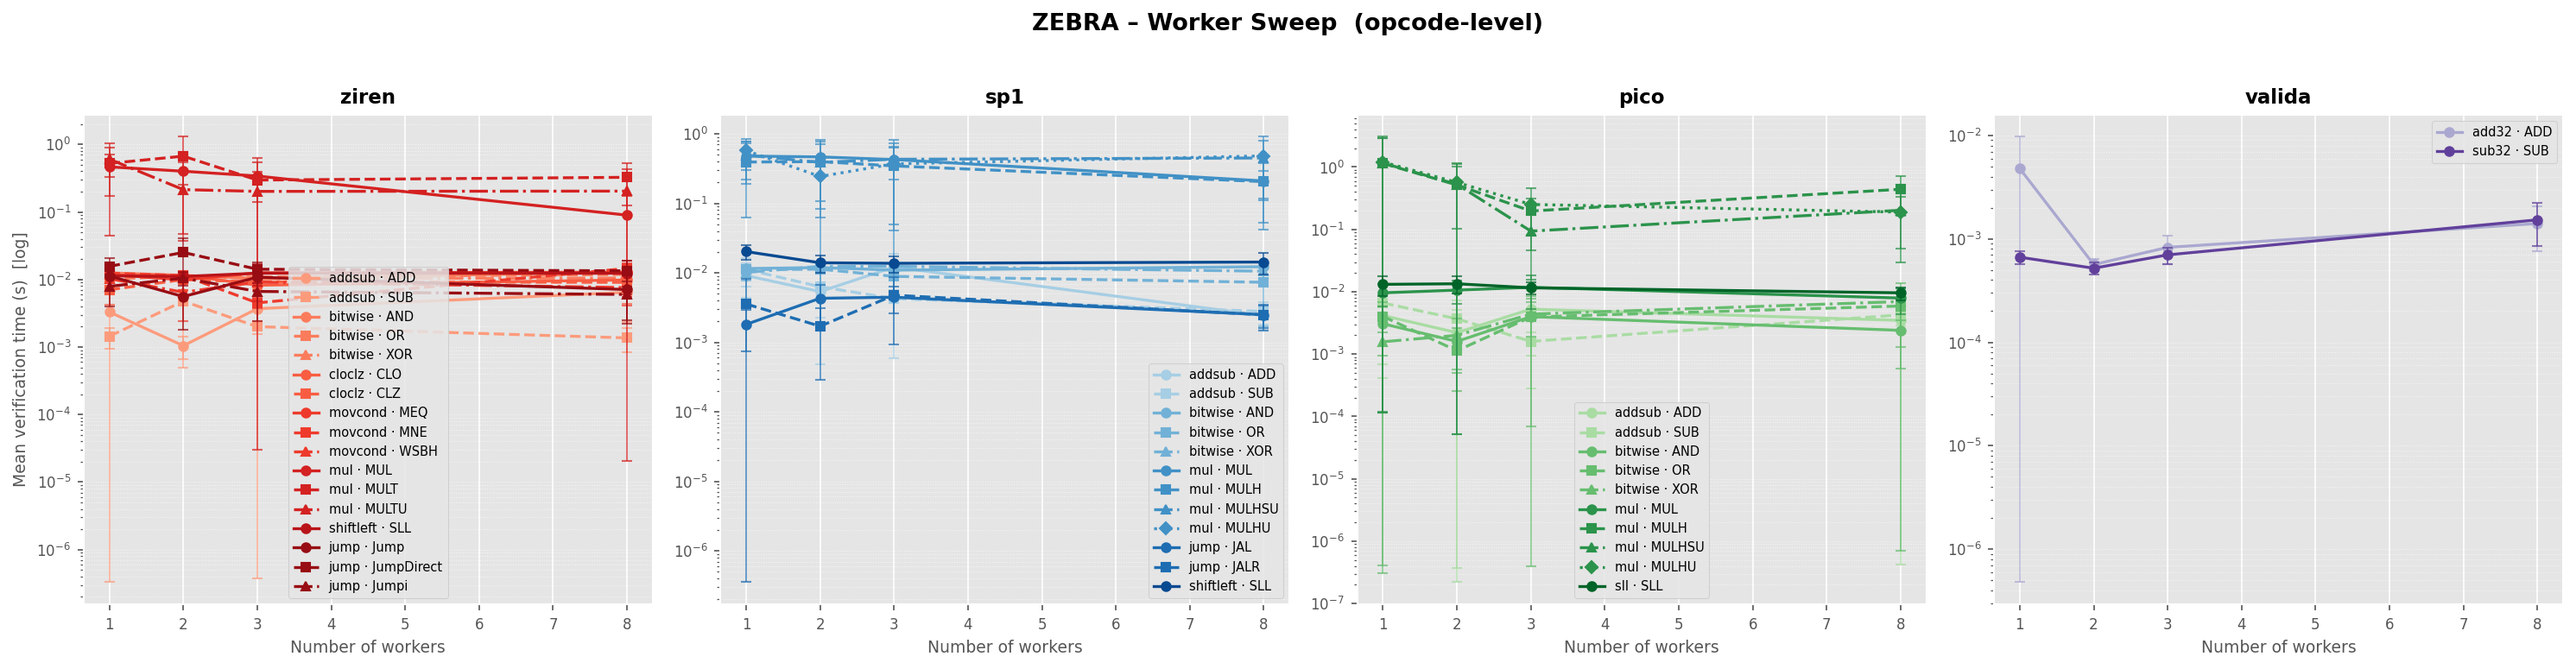
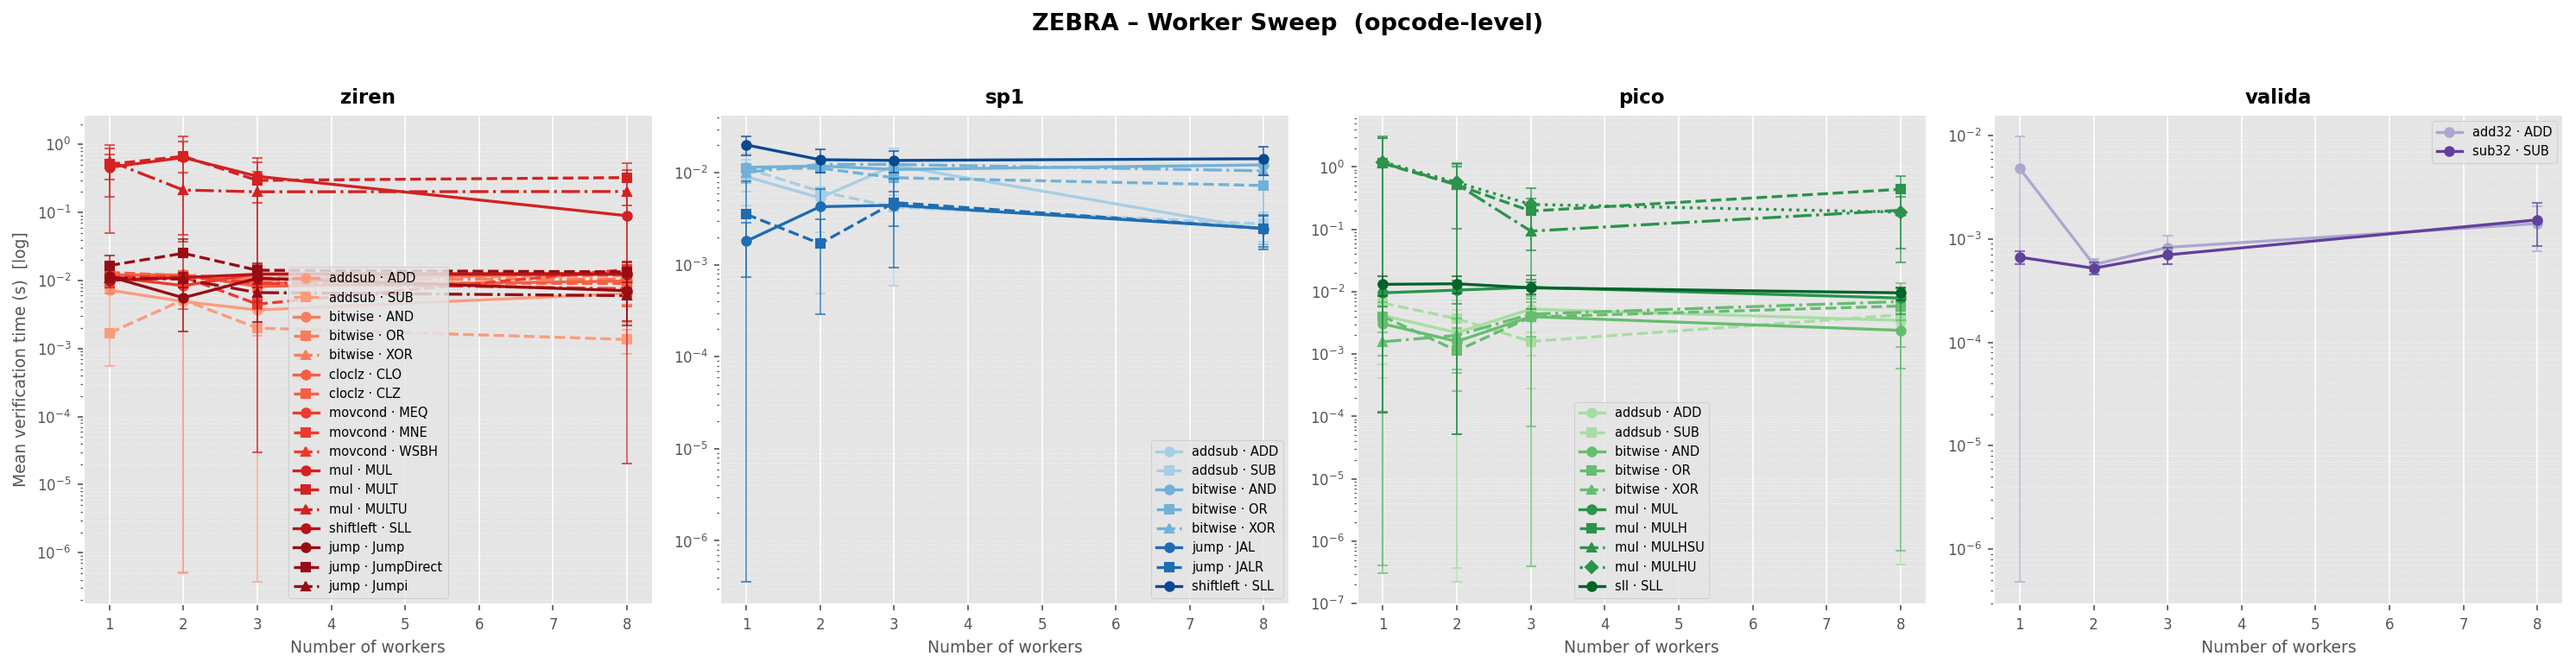
update

diff --git a/scripts/plot_experiments.py b/scripts/plot_experiments.py
@@ -72,12 +72,17 @@ def load_sweep(vm_report_dir: str, sweep_type: str) -> dict:
 
     Returns
       { (chip, opcode): { param_value: (mean, std) } }
+
+    (chip, opcode) pairs where any parameter point has success_ratio < 1.0
+    are excluded entirely.
     """
     base = os.path.join(vm_report_dir, sweep_type)
     if not os.path.isdir(base):
         return {}
 
     data: dict = defaultdict(dict)
+    # Track which (chip, opcode) pairs have a sub-1.0 success_ratio at any point.
+    failed: set = set()
     prefix = "workers_" if sweep_type == "worker_sweep" else "range_"
 
     for chip in sorted(os.listdir(base)):
@@ -105,10 +110,17 @@ def load_sweep(vm_report_dir: str, sweep_type: str) -> dict:
                 rep  = content["report"]
                 mean = rep.get("exe_time_mean")
                 var  = rep.get("exe_time_variance", 0.0)
+                success_ratio = rep.get("success_ratio", 1.0)
                 if mean is None:
                     continue
+                if success_ratio < 1.0:
+                    failed.add((chip, opcode))
                 std = math.sqrt(max(var, 0.0))
                 data[(chip, opcode)][param_val] = (mean, std)
+
+    # Remove any (chip, opcode) that failed at least once.
+    for key in failed:
+        data.pop(key, None)
 
     return data
 
